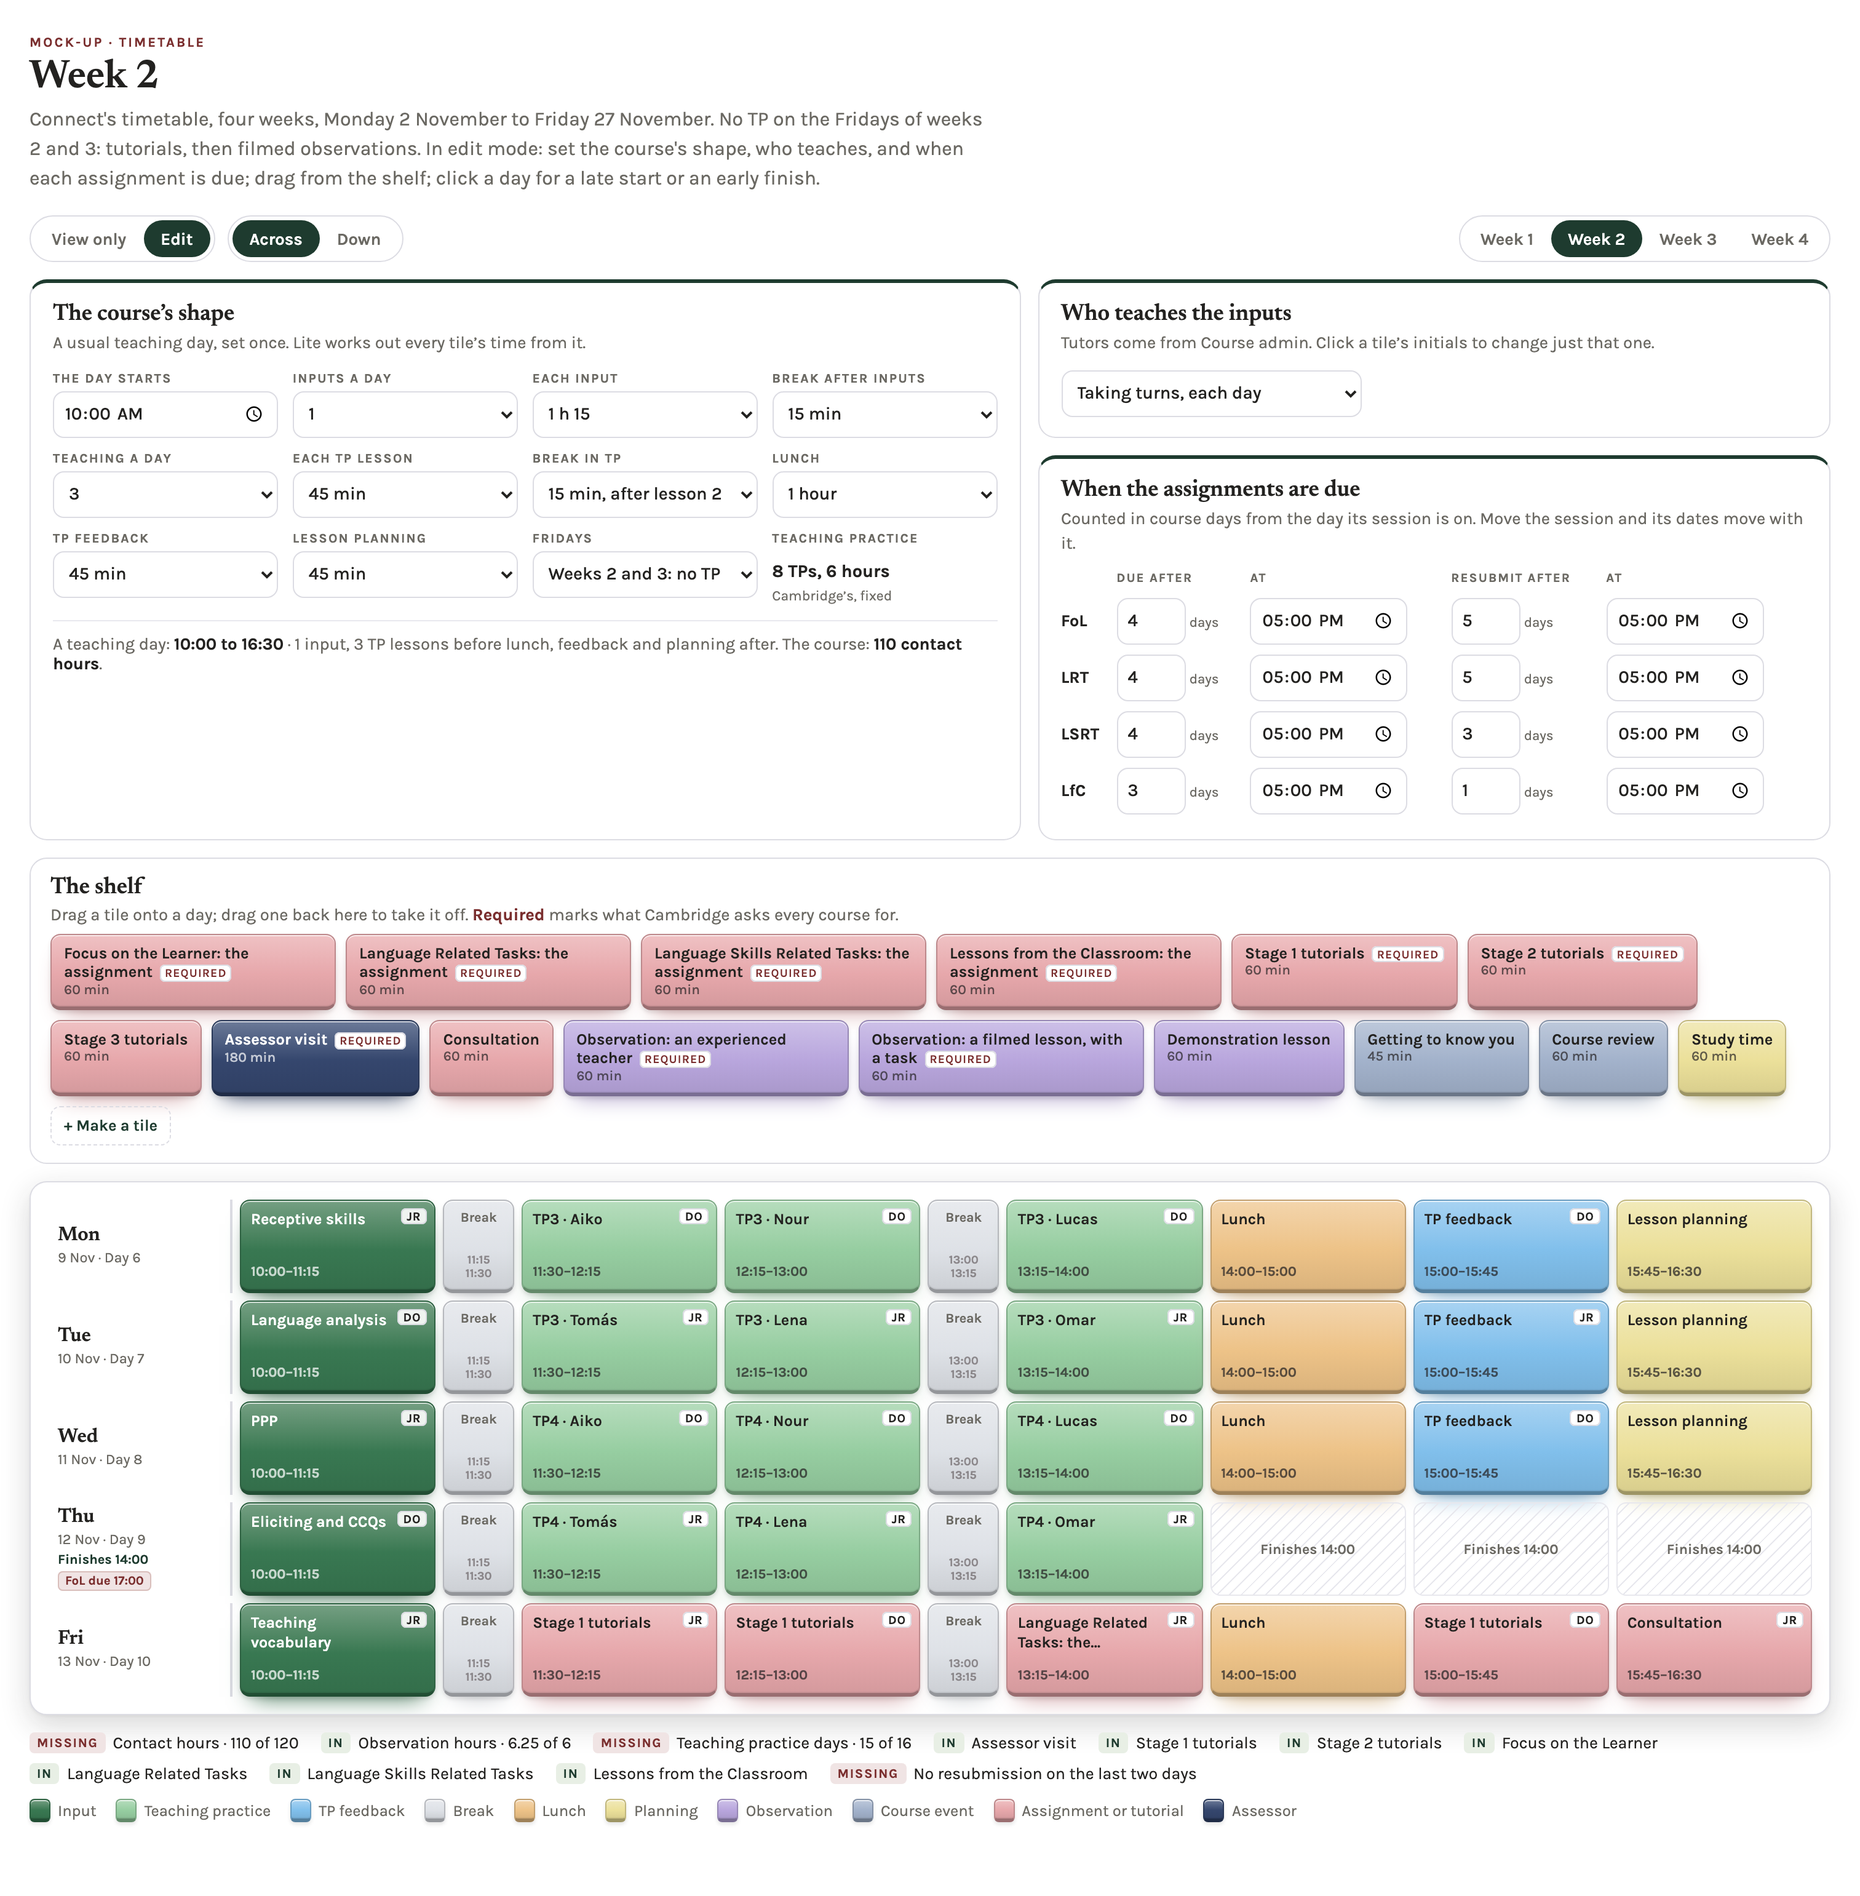
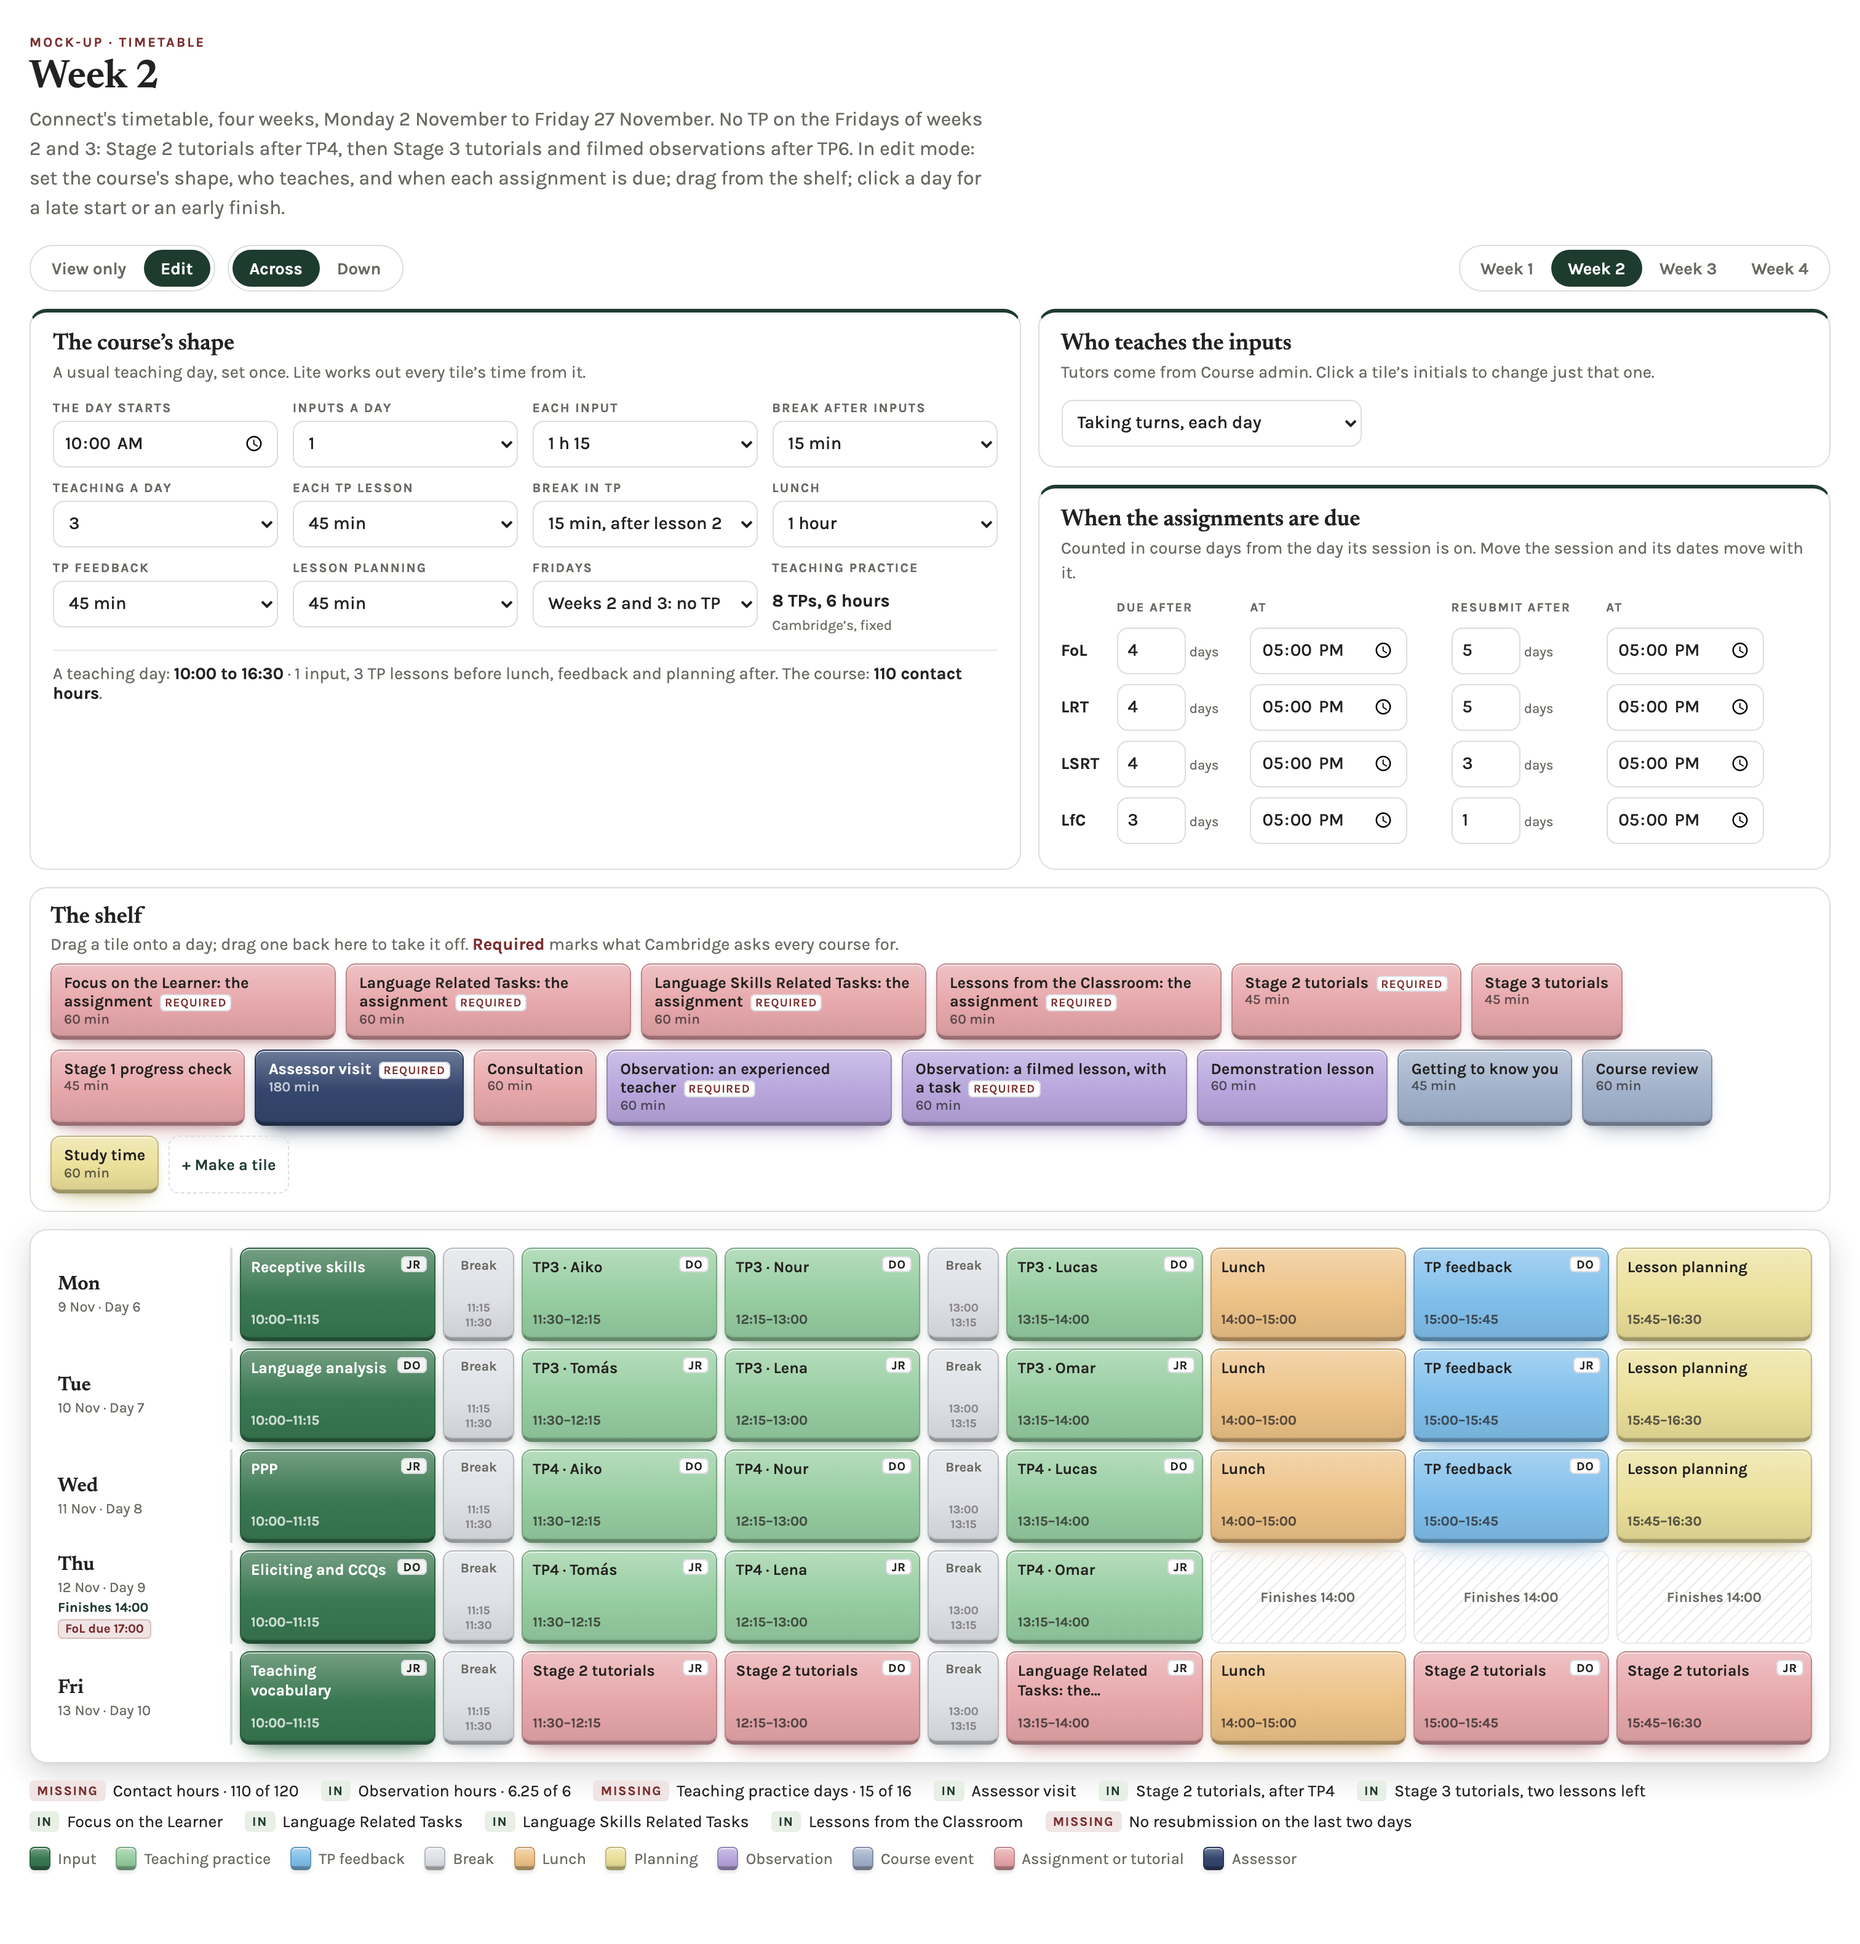
Timetable mock-up: the stages as the Handbook has them (Ramy, 29 Oct 2026: "What's wrong with the stage 2 tutorials after TP4"). Handbook 10, pp. 30-31: Stage 1 is a progress check in the first third (a tutorial is not required); Stage 2 is the one-to-one tutorial at the halfway point, after TP4, as

diff --git a/docs/mockups/timetable-whole.html b/docs/mockups/timetable-whole.html
@@ -145,7 +145,7 @@
 <div class="wrap" id="root">
   <p class="eyebrow">Mock-up · Timetable</p>
   <h1 id="title">Week 1</h1>
-  <p class="lede">Connect's timetable, four weeks, Monday 2 November to Friday 27 November. No TP on the Fridays of weeks 2 and 3: tutorials, then filmed observations. In edit mode: set the course's shape, who teaches, and when each assignment is due; drag from the shelf; click a day for a late start or an early finish.</p>
+  <p class="lede">Connect's timetable, four weeks, Monday 2 November to Friday 27 November. No TP on the Fridays of weeks 2 and 3: Stage 2 tutorials after TP4, then Stage 3 tutorials and filmed observations after TP6. In edit mode: set the course's shape, who teaches, and when each assignment is due; drag from the shelf; click a day for a late start or an early finish.</p>
   <div class="bar">
     <div class="seg" id="mode"><button data-v="view" class="on">View only</button><button data-v="edit">Edit</button></div>
     <div class="seg" id="lay"><button data-v="across" class="on">Across</button><button data-v="down">Down</button></div>
@@ -215,7 +215,7 @@
   var SHELF = [
     { k:'task', t:'Focus on the Learner: the assignment', len:60, asg:'fol', req:1 }, { k:'task', t:'Language Related Tasks: the assignment', len:60, asg:'lrt', req:1 },
     { k:'task', t:'Language Skills Related Tasks: the assignment', len:60, asg:'lsrt', req:1 }, { k:'task', t:'Lessons from the Classroom: the assignment', len:60, asg:'lfc', req:1 },
-    { k:'task', t:'Stage 1 tutorials', len:60, req:1 }, { k:'task', t:'Stage 2 tutorials', len:60, req:1 }, { k:'task', t:'Stage 3 tutorials', len:60 },
+    { k:'task', t:'Stage 2 tutorials', len:45, req:1 }, { k:'task', t:'Stage 3 tutorials', len:45 }, { k:'task', t:'Stage 1 progress check', len:45 },
     { k:'assessor', t:'Assessor visit', len:180, req:1 }, { k:'task', t:'Consultation', len:60 },
     { k:'demo', t:'Observation: an experienced teacher', len:60, req:1 }, { k:'demo', t:'Observation: a filmed lesson, with a task', len:60, req:1 }, { k:'demo', t:'Demonstration lesson', len:60 },
     { k:'event', t:'Getting to know you', len:45 }, { k:'event', t:'Course review', len:60 }, { k:'plan', t:'Study time', len:60 }
@@ -261,7 +261,7 @@
     function put(row, x){ var c = col(x.s); while (row[c] && c < BAR.length - 1) c++; row[c] = x; }
     var tps = shape.filter(function(x){ return x.k === 'tp'; }), lunch = shape.filter(function(x){ return x.k === 'lunch'; })[0];
     var after = shape.filter(function(x){ return x.k === 'feedback' || x.k === 'plan'; });
-    var extra = { 9: [[0,'task','Language Related Tasks: the assignment','lrt'], [3,'task','Stage 1 tutorials']], 14: [[0,'task','Language Skills Related Tasks: the assignment','lsrt'], [3,'task','Stage 2 tutorials']] };
+    var extra = {};
     for (var d = 0; d < 20; d++) {
       CUR_DAY = d; var row = BAR.map(function(){ return null; }), p = P[d], isFri = DATES[d].getDay() === 5;
       shape.forEach(function(x){
@@ -296,7 +296,10 @@
         /* a filmed-observations Friday: three observations with their tasks, consultations, the week's assignment or tutorials */
         var slots = tps.concat(after), fill = [['demo','Filmed observation, with a task'], ['demo','Filmed observation, with a task'], ['task','Consultation'], ['demo','Filmed observation, with a task'], ['task','Consultation']];
         /* Ramy, 29 Oct 2026: "week 2 Friday will be tutorials" */
-        if (d === 9) fill = [['task','Stage 1 tutorials'], ['task','Stage 1 tutorials'], ['task','Language Related Tasks: the assignment','lrt'], ['task','Stage 1 tutorials'], ['task','Consultation']];
+        /* Handbook 10 (pp. 30-31): Stage 2 is the one-to-one tutorial at the halfway point, after TP4, as the trainees swap
+           tutors; Stage 3 in the final third, with at least two lessons left (after TP6) */
+        if (d === 9) fill = [['task','Stage 2 tutorials'], ['task','Stage 2 tutorials'], ['task','Language Related Tasks: the assignment','lrt'], ['task','Stage 2 tutorials'], ['task','Stage 2 tutorials']];
+        else if (d === 14) fill = [['demo','Filmed observation, with a task'], ['demo','Filmed observation, with a task'], ['task','Language Skills Related Tasks: the assignment','lsrt'], ['task','Stage 3 tutorials'], ['demo','Filmed observation, with a task']];
         else (extra[d] || []).forEach(function(e){ fill[e[0] === 0 ? 2 : 4] = [e[1], e[2], e[3]]; });
         slots.forEach(function(x, i){ var f = fill[i] || ['task','Consultation']; var o = { k: f[0], t: f[1], s: x.s, e: x.e }; if (f[2]) o.asg = f[2]; if (f[0] !== 'demo') o.by = who(d + i); put(row, o); });
       }
@@ -401,13 +404,18 @@
     else { rows.forEach(function(r){ grid.appendChild(dayCell(r, F)); }); BAR.forEach(function(_, c){ rows.forEach(function(r){ grid.appendChild(tile(r, c)); }); }); }
     checks();
   }
+  /* the day after a given TP has been taught by both groups */
+  function afterTP(n){ var last = -1; CELLS.forEach(function(row, r){ row.forEach(function(x){ if (x && x.k === 'tp' && new RegExp('^TP' + n + ' ').test(x.t)) last = r; }); }); return last; }
+  function dayOf(re){ var at = -1; CELLS.forEach(function(row, r){ row.forEach(function(x){ if (x && re.test(x.t) && at < 0) at = r; }); }); return at; }
+  function stage2ok(){ var d = dayOf(/Stage 2 tutorials/), a = afterTP(4), b = afterTP(5); return d > a && a >= 0 && (b < 0 || d < b); }
+  function stage3ok(){ var d = dayOf(/Stage 3 tutorials/), a = afterTP(7); return d >= 0 && d < a; }
   /* what Cambridge asks of every course, said before you lock it */
   function checks(){
     var all = []; CELLS.forEach(function(row, r){ if (MOD[r] !== 'off') row.forEach(function(x, c){ if (x && !off(r, c)) all.push(x); }); });
     var obs = all.filter(function(x){ return x.k === 'demo'; }).reduce(function(a, x){ return a + (mins(x.e) - mins(x.s)); }, 0) / 60;
     var tps = 0; CELLS.forEach(function(row, r){ if (MOD[r] !== 'off' && MOD[r] !== 'notp' && MOD[r] !== 'early') { if (row.some(function(x){ return x && x.k === 'tp'; })) tps++; } });
     function has(re){ return all.some(function(x){ return re.test(x.t); }); }
-    var L = [['Contact hours', CONTACT >= 120, (Math.round(CONTACT * 4) / 4) + ' of 120'], ['Observation hours', obs >= 6, obs + ' of 6'], ['Teaching practice days', tps >= 16, tps + ' of 16'], ['Assessor visit', has(/Assessor visit/)], ['Stage 1 tutorials', has(/Stage 1 tutorials/)], ['Stage 2 tutorials', has(/Stage 2 tutorials/)]]
+    var L = [['Contact hours', CONTACT >= 120, (Math.round(CONTACT * 4) / 4) + ' of 120'], ['Observation hours', obs >= 6, obs + ' of 6'], ['Teaching practice days', tps >= 16, tps + ' of 16'], ['Assessor visit', has(/Assessor visit/)], ['Stage 2 tutorials, after TP4', stage2ok()], ['Stage 3 tutorials, two lessons left', stage3ok()]]
       .concat(ASG.map(function(a){ return [a.full, all.some(function(x){ return x.asg === a.k; })]; }));
     /* his C/18 rule (8 Oct 2026): no resubmission on the last two days */
     var F = flags(), lateRe = [18, 19].some(function(i){ return (F[i] || []).some(function(f){ return f.w === 're'; }); });
